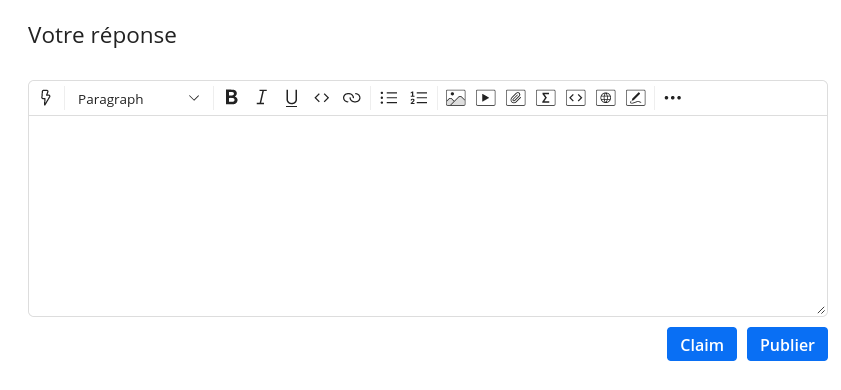
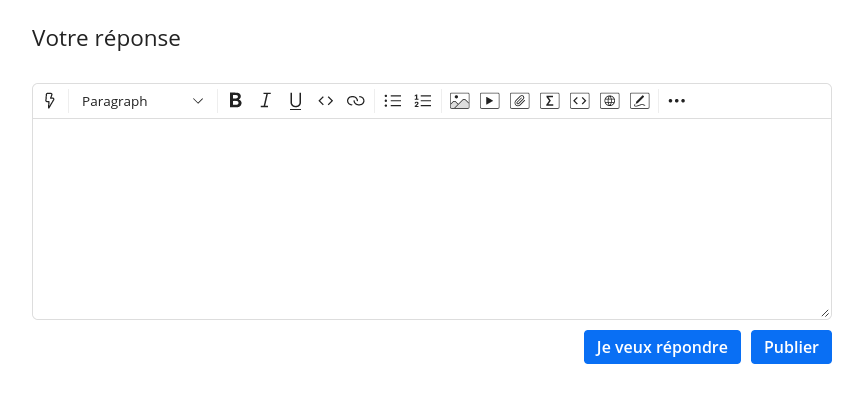
update

diff --git a/README.md b/README.md
@@ -1,6 +1,7 @@
 # SplitED
 
-Un userscript Violentmonkey pour claim des questions sur Edstem et se les répartir, entre étudiants, à l'aide d'un tunnel websocket.
+Un userscript Violentmonkey pour communiquer aux autres étudiants que l'on a vu une question et que l'on est en train de rédiger une (peut-être longue) réponse.
+Cela permet d'éviter des doubles-réponses ou des pertes de temps.
 
 ![claimed](./unclaimed.png)
 
@@ -9,3 +10,5 @@ Un userscript Violentmonkey pour claim des questions sur Edstem et se les répar
 Quelqu'un dans le groupe souhaite déjà répondre à la question et est en train de rédiger
 
 ![claimed](./claimed.jpg)
+
+![cancel](./cancel.png)
